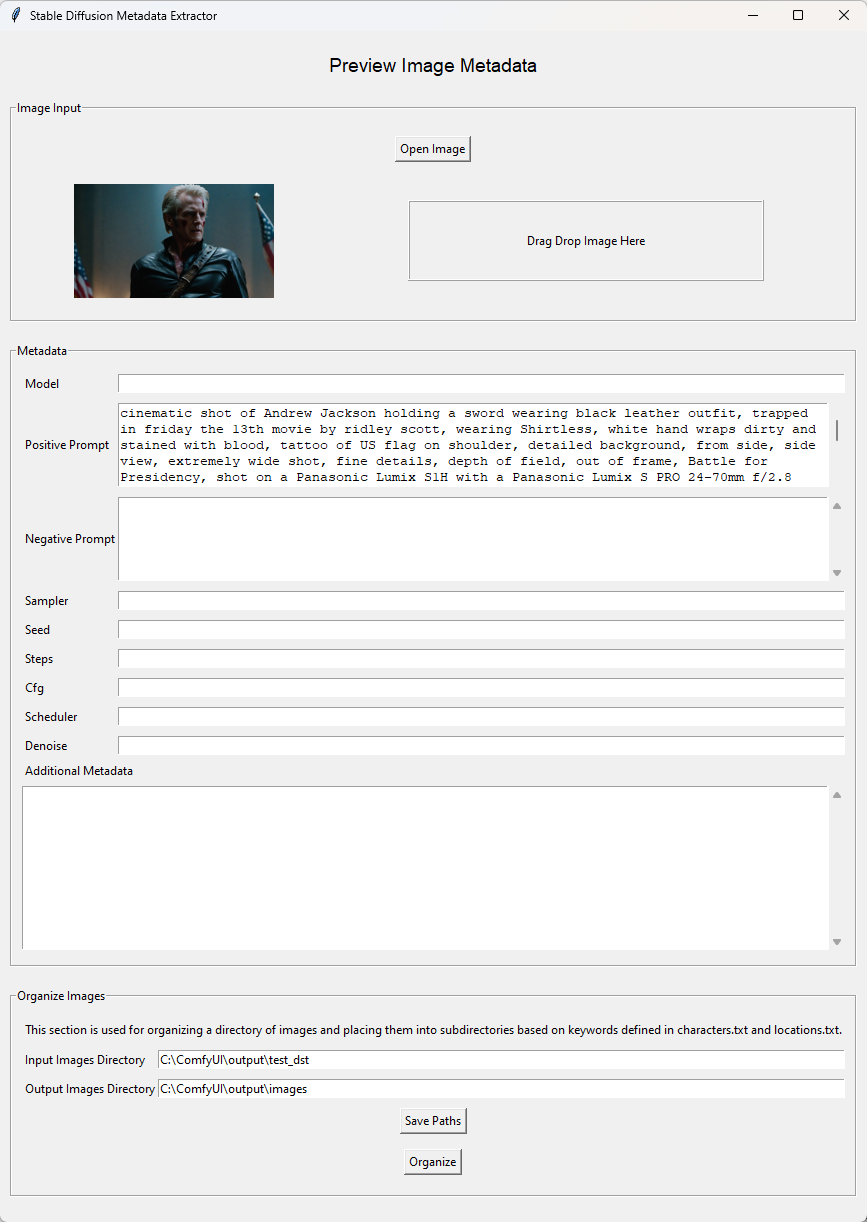
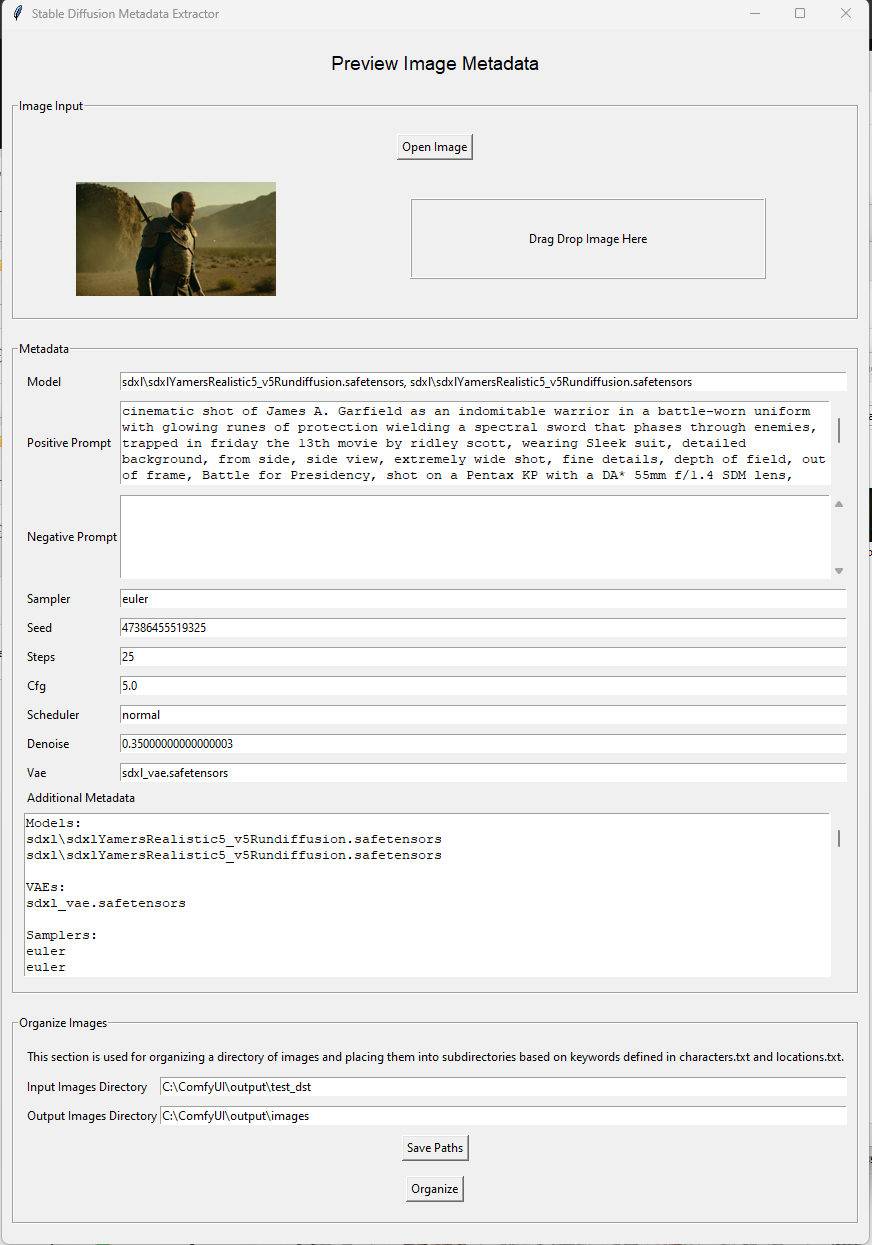
fix issues with application

diff --git a/scripts/metadata_parser.py b/scripts/metadata_parser.py
@@ -23,9 +23,18 @@ class MetadataParser:
                 width, height = img.size
 
                 # Use the find_positive_prompt_data function to get the positive prompt data
-                metadata_str_keys = self.convert_keys_to_strings(prompt_info.metadata)
+                #metadata_str_keys = self.convert_keys_to_strings(prompt_info.metadata)
+                #prompt_data  = self.find_positive_prompt_data(metadata_str_keys)
+                #positive_prompt = prompt_data[0] if prompt_data else self.get_prompt_text(prompt_info.prompts)
+
+                temp_metadata = self.extract_metadata_type2(image_path)
+                metadata_str_keys = self.convert_keys_to_strings(temp_metadata)
+
                 prompt_data = self.find_positive_prompt_data(metadata_str_keys)
-                positive_prompt = prompt_data[0] if prompt_data else self.get_prompt_text(prompt_info.prompts)
+                positive_prompt = ""
+                if len(prompt_data) > 0:
+                    positive_prompt = prompt_data[0]
+
 
                 negative_prompt = self.get_prompt_text(prompt_info.negative_prompts)
                 clip_skip = self.find_value_in_dict(prompt_info.parameters, 'clip')
@@ -35,6 +44,29 @@ class MetadataParser:
         except Exception as e:
             logging.exception("Error processing image")
             return f"Error processing image: {str(e)}", "", 0.0, 0, 0, 0, "", "", 0, [], [], "", "", 0.0
+
+    def extract_metadata_type2(self, file_path: str) -> Dict[str, Any]:
+        try:
+            img = Image.open(file_path)
+            # Extract metadata using sd_parsers
+            prompt_info = self.parser_manager.parse(file_path)
+            if not prompt_info:
+                raise ValueError("No metadata found in image.")
+            metadata = {
+                "prompt": prompt_info.parameters,
+                "workflow": prompt_info.metadata
+            }
+            return metadata
+        except Exception as e:
+            raise ValueError(f"Error extracting metadata: {e}")
+
+    def convert_keys_to_strings(self, d):
+        if isinstance(d, dict):
+            return {str(k): self.convert_keys_to_strings(v) for k, v in d.items()}
+        elif isinstance(d, list):
+            return [self.convert_keys_to_strings(i) for i in d]
+        else:
+            return d
 
     def find_value_in_dict(self, d: Union[Dict, List], key: str, default=None) -> Any:
         if isinstance(d, dict):
